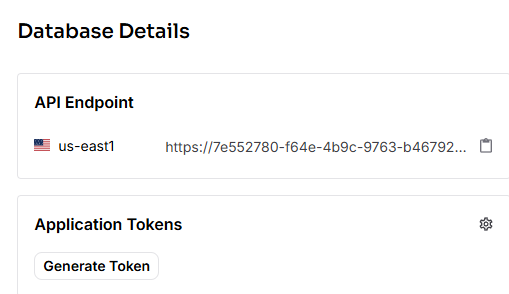
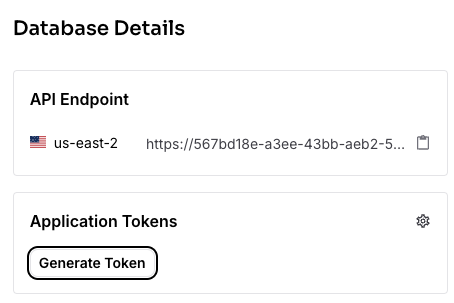
Workshop instructions added

diff --git a/WORKSHOP.md b/WORKSHOP.md
@@ -43,7 +43,7 @@ Get your free-forever, serverless vector database:
 *   Go to [astra.datastax.com](https://astra.datastax.com).
 *   Sign up or log in (using GitHub is easy!).
 *   Click `Databases` -> `Create Database`.
-*   Select `Serverless (Vector)`, choose a Cloud Provider/Region, and name your database (e.g., `agentic-ai`).
+*   Select `Serverless (Vector)`, choose Amazon Web Services as Cloud Provider, choose us-east-2 as Region, and name your database (e.g., `KineticConstructs`).
 
     ![astradb](./docs/images/astra-create-vector-db.png)
 
@@ -70,26 +70,20 @@ For Astra DB to automatically generate embeddings (e.g., when using the `$vector
 1.  **Navigate to Astra DB Integrations:**
     *   Go to your [Astra DB dashboard](https://astra.datastax.com).
     *   In the top navigation bar, click _settings_ **Settings**.
-    *   In the **Settings** navigation menu on the left, ensure your active organization is selected (it usually is by default).
     *   Click on **Integrations** under your organization's settings.
 
 2.  **Add OpenAI Embedding Provider:**
     *   Look for the **OpenAI** card under "Available Integrations" or "Embedding Providers."
-    *   Click **Add Integration** or **Configure** on the OpenAI card.
+    *   Click **Add Integration** on the OpenAI card.
 
-3.  **Add Credential:**
-    *   You'll be prompted to add a credential for this integration.
-    *   **Credential Name:** Enter a descriptive name, for example, `WorkshopOpenAIKey`.
+3.  **Add API key:**
+    *   You'll be prompted to add a **API key name:** Enter a descriptive name, for example, `WorkshopOpenAIKey`.
     *   **OpenAI API Key:** Paste the **API Key** you obtained from OpenAI in the previous step.
-    *   **Model Name:** It's recommended to use `text-embedding-ada-002` for this workshop, as it's efficient and aligns with the embeddings our initial data load will use. Select this model if available in a dropdown, or enter it if it's a text field. (If newer small models like `text-embedding-3-small` are available and you prefer, ensure consistency with data loading).
-    *   Click **Add Credential** (or a similar button like **Save** or **Validate & Add**).
+    *   You need to specify which of your databases can use it. Add your database to scope.
+    *   Select your workshop database (e.g., `KineticConstructs` or the name you chose) from the list of available databases.
+    *   Click **Add API key**.
 
-4.  **Scope Credential to Database:**
-    *   Once the credential is added, you need to specify which of your databases can use it.
-    *   Find the credential you just created (e.g., `WorkshopOpenAIKey`) in the list of credentials for the OpenAI integration.
-    *   Click on options like **Manage Scopes**, **Edit Scopes**, or **Add to Databases** associated with that credential.
-    *   Select your workshop database (e.g., `agentic-ai` or the name you chose) from the list of available databases.
-    *   Confirm or save the scope changes.
+    ![add api key](./docs/images/astra-add-api-key.png)
 
 By completing these steps, you've authorized your Astra DB instance to use your OpenAI account for embedding generation. This is crucial for some of the advanced search functionalities we'll explore.
 
@@ -103,22 +97,19 @@ Let's use GitHub Codespaces for a seamless development experience. It sets up ev
     *   Navigate to the main workshop repository page: [https://github.com/difli/KineticConstructs](https://github.com/difli/KineticConstructs).
     *   Click the `Fork` button (usually near the top right of the page).
 
-    ![Fork Button](./docs/images/github-fork-button.png) *<- Placeholder: Add correct image path for Fork button*
+    ![Fork Button](./docs/images/github-fork-button.png)
 
 2.  **Configure Your Fork:**
     *   On the "Create a new fork" page, your GitHub account should be pre-selected as the owner.
-    *   **Important:** Keep the default `Repository name` as `KineticConstructs`. Changing this name will likely cause issues with the pre-configured paths for `node_modules` and Langflow settings in the Codespace environment.
-    *   You can add an optional description.
+    *   **Important:** Keep the default `Repository name` as `KineticConstructs`. 
     *   Ensure `Copy the workshop branch only` is **UNCHECKED** if such an option appears (forking typically includes all branches by default, which is what we want).
     *   Click `Create fork`.
-
-    ![Create Fork Options](./docs/images/github-create-fork-options.png) *<- Placeholder: Add correct image path for Fork options page*
 
 3.  **Navigate to Your Forked Repository:** After a few moments, you'll be taken to the main page of *your* forked repository (e.g., `https://github.com/YOUR_USERNAME/KineticConstructs`).
 
 4.  **Switch to the `workshop` branch:** On your forked repository's page, use the branch selector dropdown (it might initially show `main` or another default branch) and select the `workshop` branch. This branch contains the starting point for our exercises.
 
-    ![Switch Branch](./docs/images/github-switch-branch.png) *<- Placeholder: Add correct image path for switching branch*
+    ![Switch Branch](./docs/images/github-switch-branch.png) 
 
 5.  **Create Codespace on the `workshop` branch:**
     *   Ensure you are on the `workshop` branch of your forked repository.
@@ -166,7 +157,7 @@ Let's use GitHub Codespaces for a seamless development experience. It sets up ev
     ```
     These scripts use the credentials from your `.env` file to connect to Astra DB and create/populate the `products` and `documents` collections. Wait for both scripts to complete. You might see some output indicating the collections are being created and data is being loaded.
 
-![Terminal Output After Data Loading Scripts](./docs/images/terminal-data-loading-output.png)
+    ![Terminal Output After Data Loading Scripts](./docs/images/terminal-data-loading-output.png)
 
 ## 🚀 Running the Application (Initial State) & Understanding Basic Filtering (`server.js`)
 
@@ -281,7 +272,7 @@ Open the application. Use the main search box. Try searching for concepts:
 *   "gear for climbing mountains"
 Notice how the results relate semantically. Combine this with the filters.
 
-![Application Vector Search with server_1.js](./docs/images/app-vector-search-server-1.png)
+![Application Vector Search with server_1.js](./docs/images/app-vector-search.png)
 
 Stop the server (Ctrl+C).
 
@@ -333,12 +324,9 @@ Run the third iteration:
 ```bash
 node server_2.js
 ```
-Open the application. Try searches combining concepts and keywords:
-*   "waterproof gore-tex hiking boots"
-*   "lightweight tent for backpacking"
-Compare the results to the pure vector search.
+Open the application. Try searches combining concepts and keywords and compare the results to the pure vector search.
 
-![Application Hybrid Search with server_2.js](./docs/images/app-hybrid-search-server-2.png)
+![Application Hybrid Search with server_2.js](./docs/images/app-hybrid-search.png)
 
 Stop the server (Ctrl+C).
 
@@ -417,7 +405,7 @@ Open the application. You should now see two search boxes.
 *   Then, add a specific keyword in the second box (e.g., "tent").
 *   Observe how the results change and combine both aspects.
 
-![Application Advanced Hybrid Search with server_3.js](./docs/images/app-advanced-hybrid-search-server-3.png)
+![Application Advanced Hybrid Search with server_3.js](./docs/images/app-advanced-hybrid-search.png)
 
 Stop the server (Ctrl+C).
 
